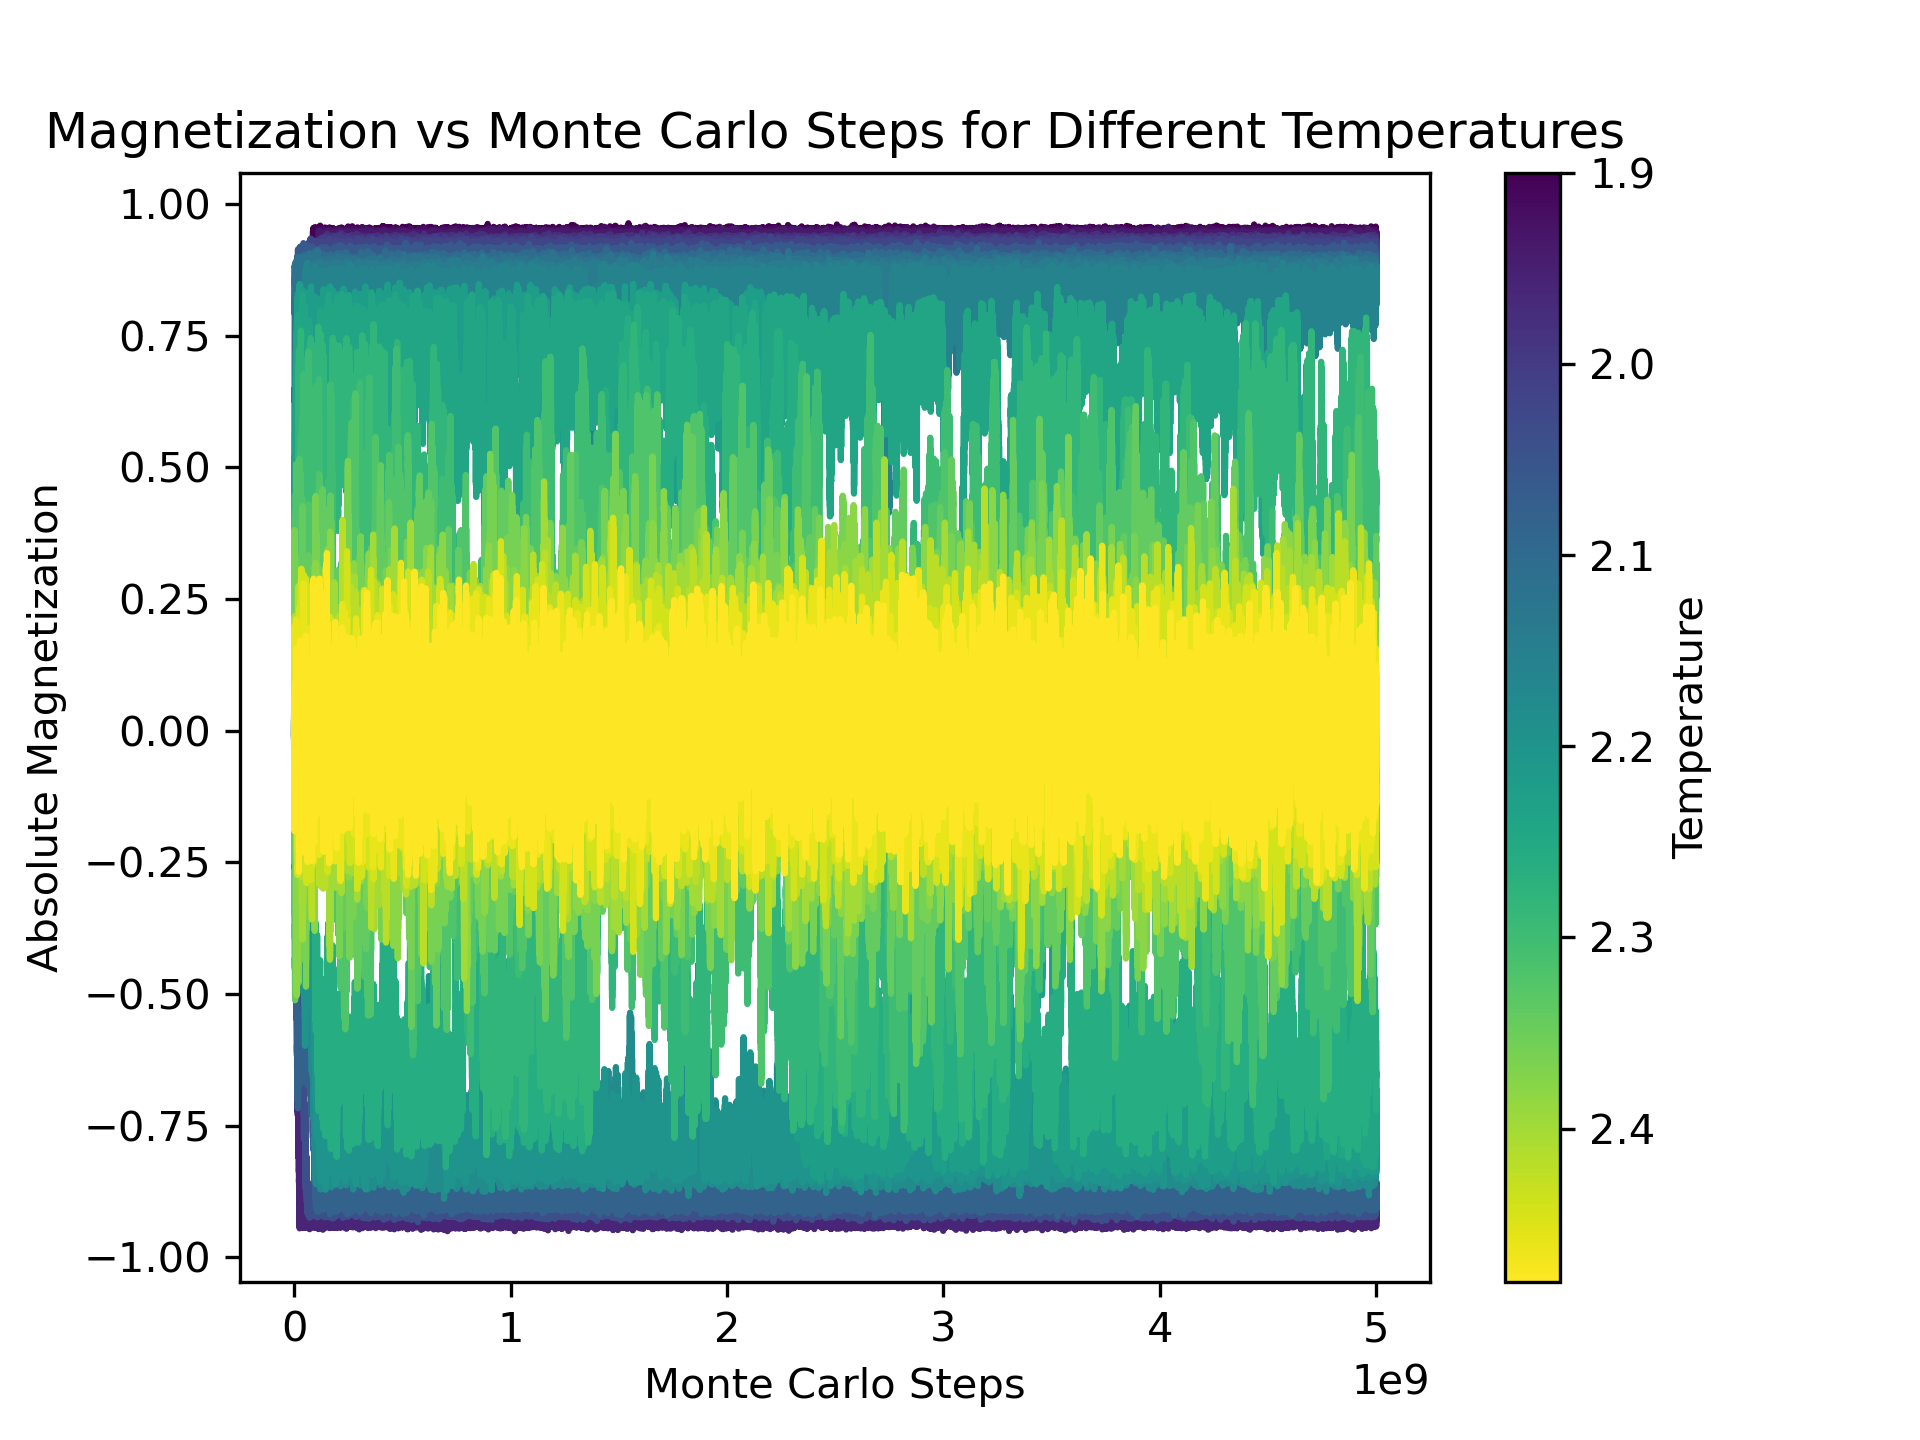
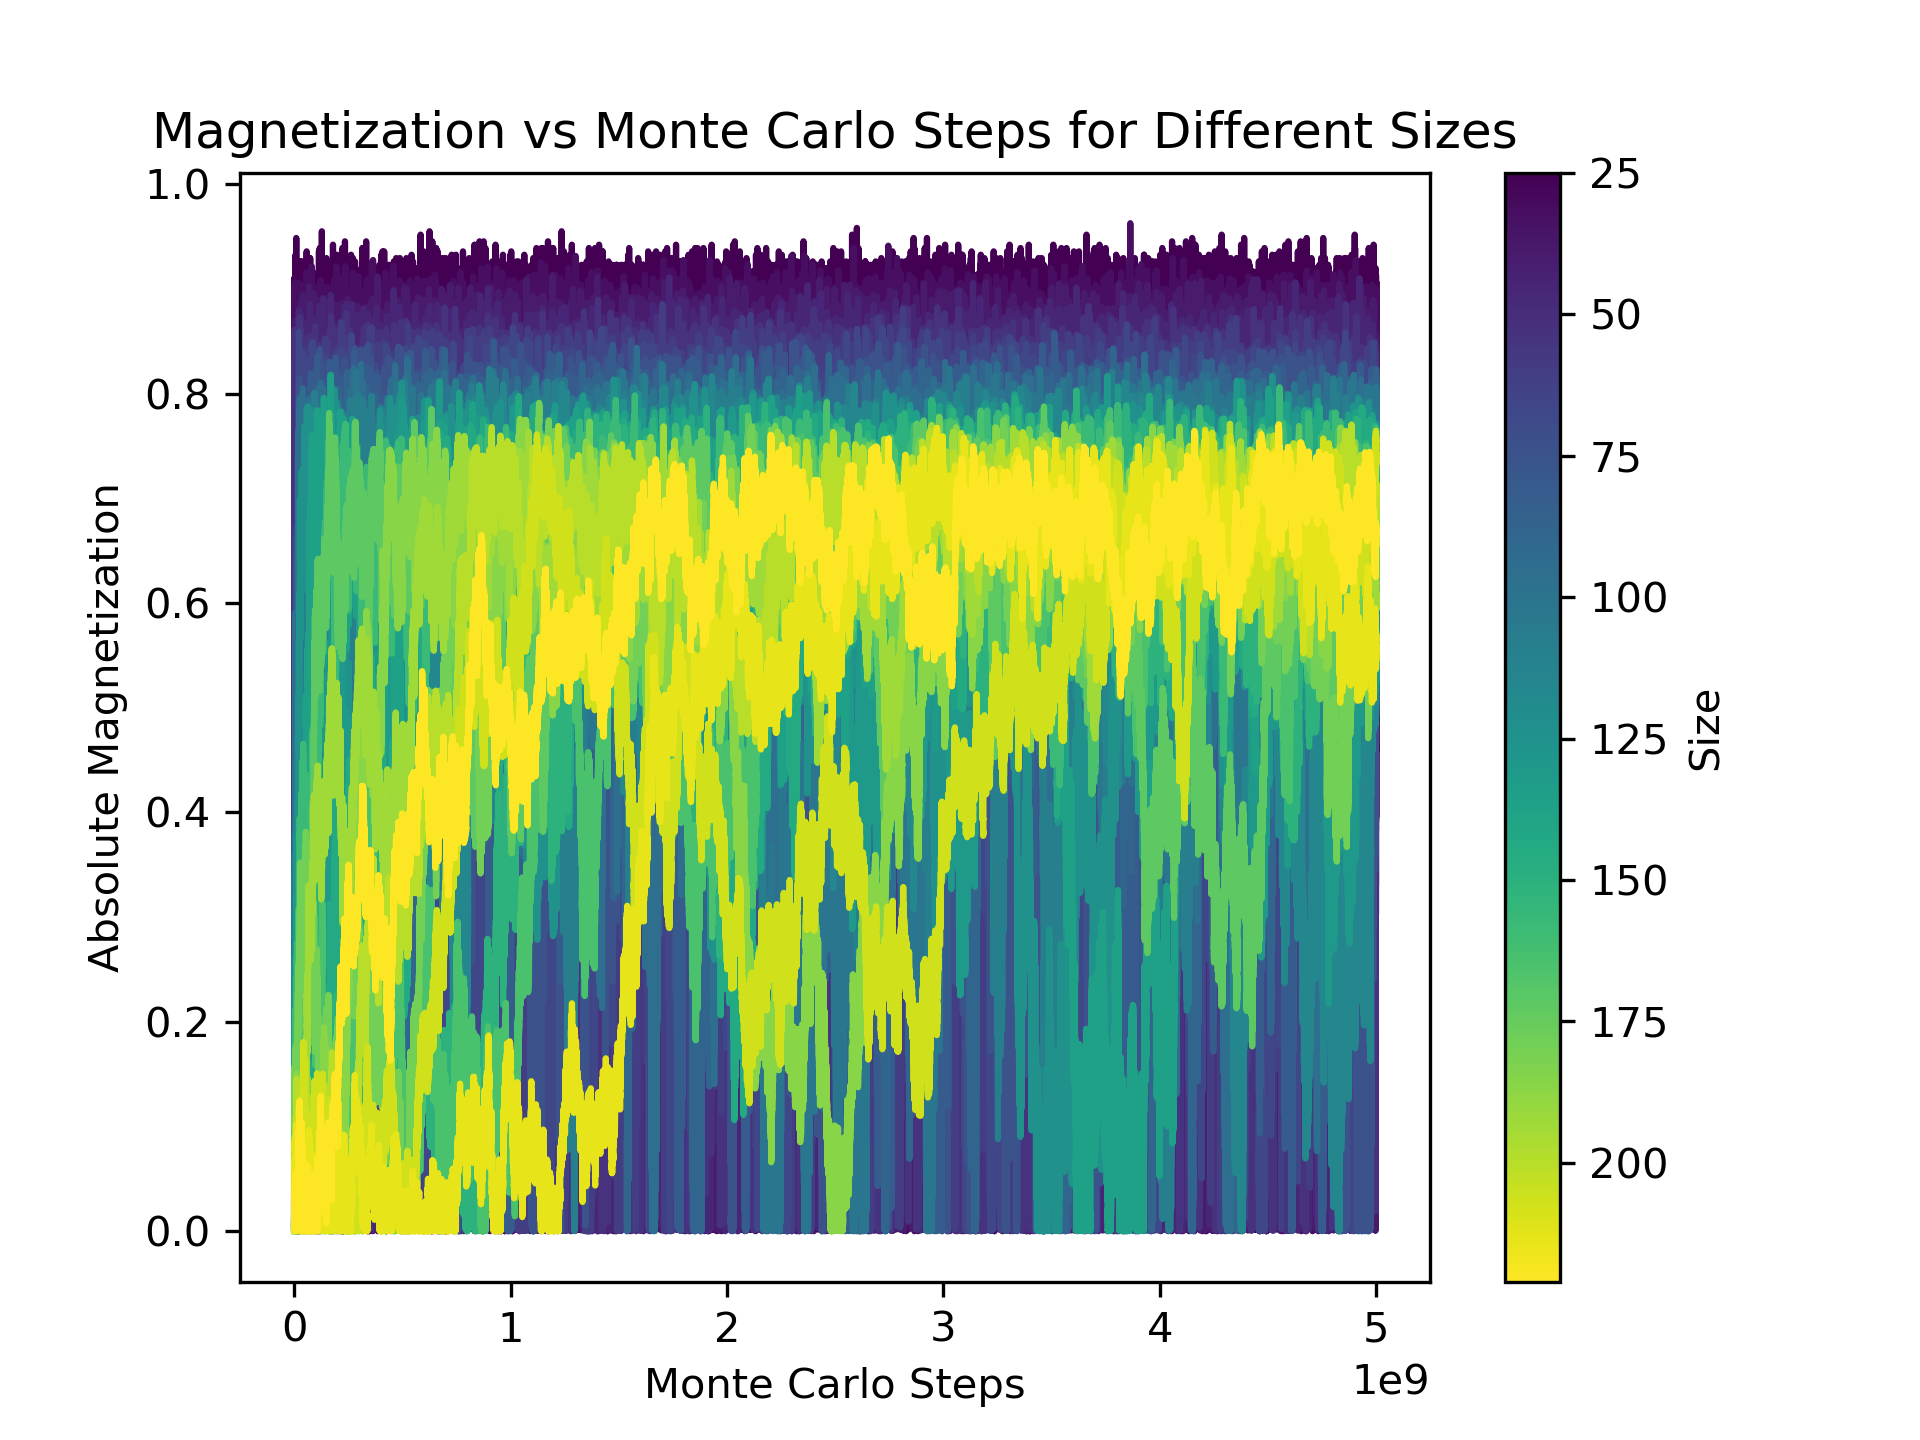
plots til Kim :)

diff --git a/plotting/sizePlot.py b/plotting/sizePlot.py
@@ -5,13 +5,13 @@ import matplotlib.colors as mcolors
 from scipy.optimize import curve_fit
 
 
-sizes = np.loadtxt("sizes.csv", delimiter=",", skiprows=0)
+sizes = np.loadtxt("output/sizes.csv", delimiter=",", skiprows=0)
 #sizes = sizes[sizes >100]
-data = np.loadtxt("magnetizationSize.csv", delimiter=",", skiprows=1)
+data = np.loadtxt("output/magnetizationSize.csv", delimiter=",", skiprows=1)
 data = np.abs(data)  # Tag den absolutte værdi af magnetiseringen
 
 # Normalisering af temperaturintervallet
-'''
+
 norm = mcolors.Normalize(vmin=min(sizes), vmax=max(sizes))
 cmap = cm.viridis
 
@@ -56,7 +56,7 @@ plt.title("Average Magnetization vs Size")
 plt.grid()
 plt.savefig("avg_magnetization_vs_size.png", dpi=300)
 plt.show()
-'''
+
 
 
 
@@ -71,12 +71,13 @@ for s in sizes:
     magnetization_guess = bin_centers[np.argmax(bins)]
     magnetization_guesses.append(magnetization_guess)
     plt.axvline(x=magnetization_guess, color='k', linestyle='--')
-    plt.legend()
 
 plt.xlabel("Magnetization")
 plt.ylabel("Frequency")
 plt.title("Histogram of Magnetization Values")
 plt.grid()
+# plt.legend()
+plt.savefig("magnetization_histograms.png", dpi=300)
 plt.show()
 
 plt.plot(sizes, magnetization_guesses, marker='o')
@@ -84,6 +85,7 @@ plt.xlabel("Size")
 plt.ylabel("Magnetization Guess")
 plt.title("Magnetization Guess vs Size")
 plt.grid()
+plt.savefig("magnetization_guess_vs_size.png", dpi=300)
 plt.show()
 
 
@@ -109,6 +111,7 @@ plt.axhline(y=b, color='green', linestyle='--', label=f"Extrapolated Magnetizati
 
 plt.legend()
 
+plt.savefig("magnetization_guess_vs_1_over_size.png", dpi=300)
 plt.show()
 
 print(magnetization_guesses)

diff --git a/simulations/SizeSweep.cpp b/simulations/SizeSweep.cpp
@@ -5,21 +5,24 @@
 #include <iostream>
 #include <fstream>
 #include <random>
+#include <chrono>
 
 int main() 
 {
+    auto startTime = std::chrono::high_resolution_clock::now();
+
     std::ofstream outFile("output/magnetizationSize.csv");
     std::ofstream sizeFile("output/sizes.csv");
 
     std::vector<MCParameters> paramsList;
 
-    for (int s = 25; s < 126; s += 5)
+    for (int s = 25; s < 222; s += 7)
     {
         MCParameters params;
         params.latticeType = LatticeType2D::FunkySquare;
         params.size = s;
         params.temperature = 2.25;
-        params.totalStepCount = 2e9;
+        params.totalStepCount = 5e9;
         params.measurementInterval = 10000;
         params.randomize = true;
         params.printProgress = false;
@@ -47,6 +50,10 @@ int main()
 
     outFile.close();
     sizeFile.close();
+
+    auto endTime = std::chrono::high_resolution_clock::now();
+    std::chrono::duration<double> elapsed = endTime - startTime;
+    std::cout << "Simulation completed in " << elapsed.count() << " seconds.\n";
 
     return 0;
 }

diff --git a/simulations/TempSweep.cpp b/simulations/TempSweep.cpp
@@ -5,9 +5,13 @@
 #include <iostream>
 #include <fstream>
 #include <random>
+#include <chrono>
 
 int main() 
 {
+    // time the simulation
+    auto startTime = std::chrono::high_resolution_clock::now();
+
     std::ofstream outFile("output/magnetization.csv");
     std::ofstream tempFile("output/temperatures.csv");
 
@@ -47,6 +51,10 @@ int main()
 
     outFile.close();
     tempFile.close();
+
+    auto endTime = std::chrono::high_resolution_clock::now();
+    std::chrono::duration<double> elapsed = endTime - startTime;
+    std::cout << "Simulation completed in " << elapsed.count() << " seconds.\n";
 
     return 0;
 }
